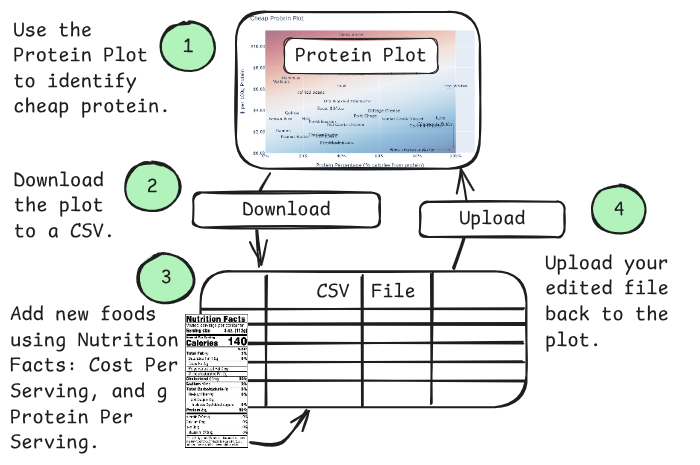
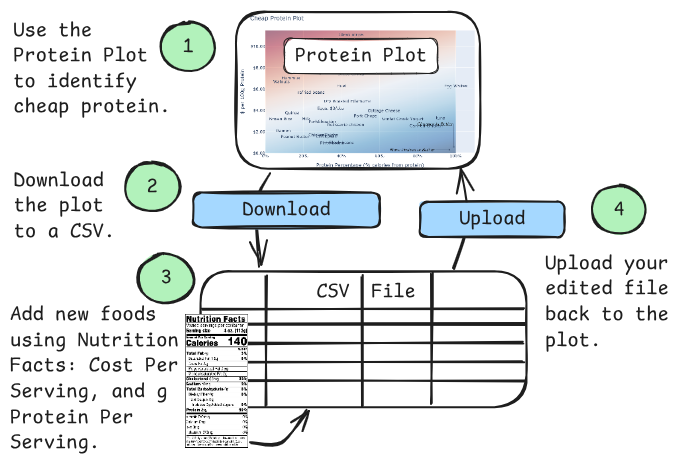
some cleanup

Changed region(s): [[0.27, 0.3914, 0.54, 0.5118], [0.6, 0.4215, 0.81, 0.5118]]

diff --git a/dash_app.py b/dash_app.py
@@ -1,6 +1,4 @@
-import dash
 from dash import dcc, html, Dash, Input, Output, State, callback
-import plotly.graph_objects as go
 import io
 import base64
 import protein_plot
@@ -71,8 +69,6 @@ def markdown_text(filepath):
         content = file.read()
     return content
 
-# Removed upload_download_style dict as we're using CSS classes now
-
 app.layout = html.Div([
     dcc.Markdown(children='# The Protein Plot\nHi, this is the protein plot.'),
     html.Div(
@@ -89,6 +85,12 @@ app.layout = html.Div([
     ),
     # Container for side-by-side buttons
     html.Div([
+        # Download button first for left positioning
+        html.Button(
+            "Download this plot as a CSV file.",
+            id="download-csv",
+            className='material-button', # Apply the 'material-button' class
+        ),
         dcc.Upload(
             id='upload-data',
             # Apply 'material-button' class to the clickable child of dcc.Upload
@@ -98,19 +100,14 @@ app.layout = html.Div([
             ),
             # Apply 'dcc-upload-container' to the dcc.Upload component itself
             className='dcc-upload-container',
-            multiple=False ,
+            multiple=False,
         ),
-        html.Button(
-            "Download this plot as a CSV file.",
-            id="download-csv",
-            className='material-button', # Apply the 'material-button' class
-        )
     ], style={'display': 'flex', 'justifyContent': 'center', 'margin': '10px 0'}), # Flexbox for side-by-side
     dcc.Download(
         id="download-dataframe-csv",
     ),
     html.Img(
-        src='static/excaliprotein.svg', # Ensure this path is correct, should be static/excaliprotein.svg if in static folder
+        src='static/excaliprotein.png',
         style={'width': '50%', 'display': 'block', 'margin': 'auto', 'padding': '20px 0'},
     ),
     dcc.Markdown(children=markdown_text('quickstart.md'),mathjax=True),

diff --git a/protein_plot.py b/protein_plot.py
@@ -87,7 +87,7 @@ class ProteinPlot:
             x=.99,
             y=0.5,
             ax=0,
-            ay=-70,
+            ay=-50,
             text='Cheaper is Better',
             xanchor='right',
             #textangle=90,
